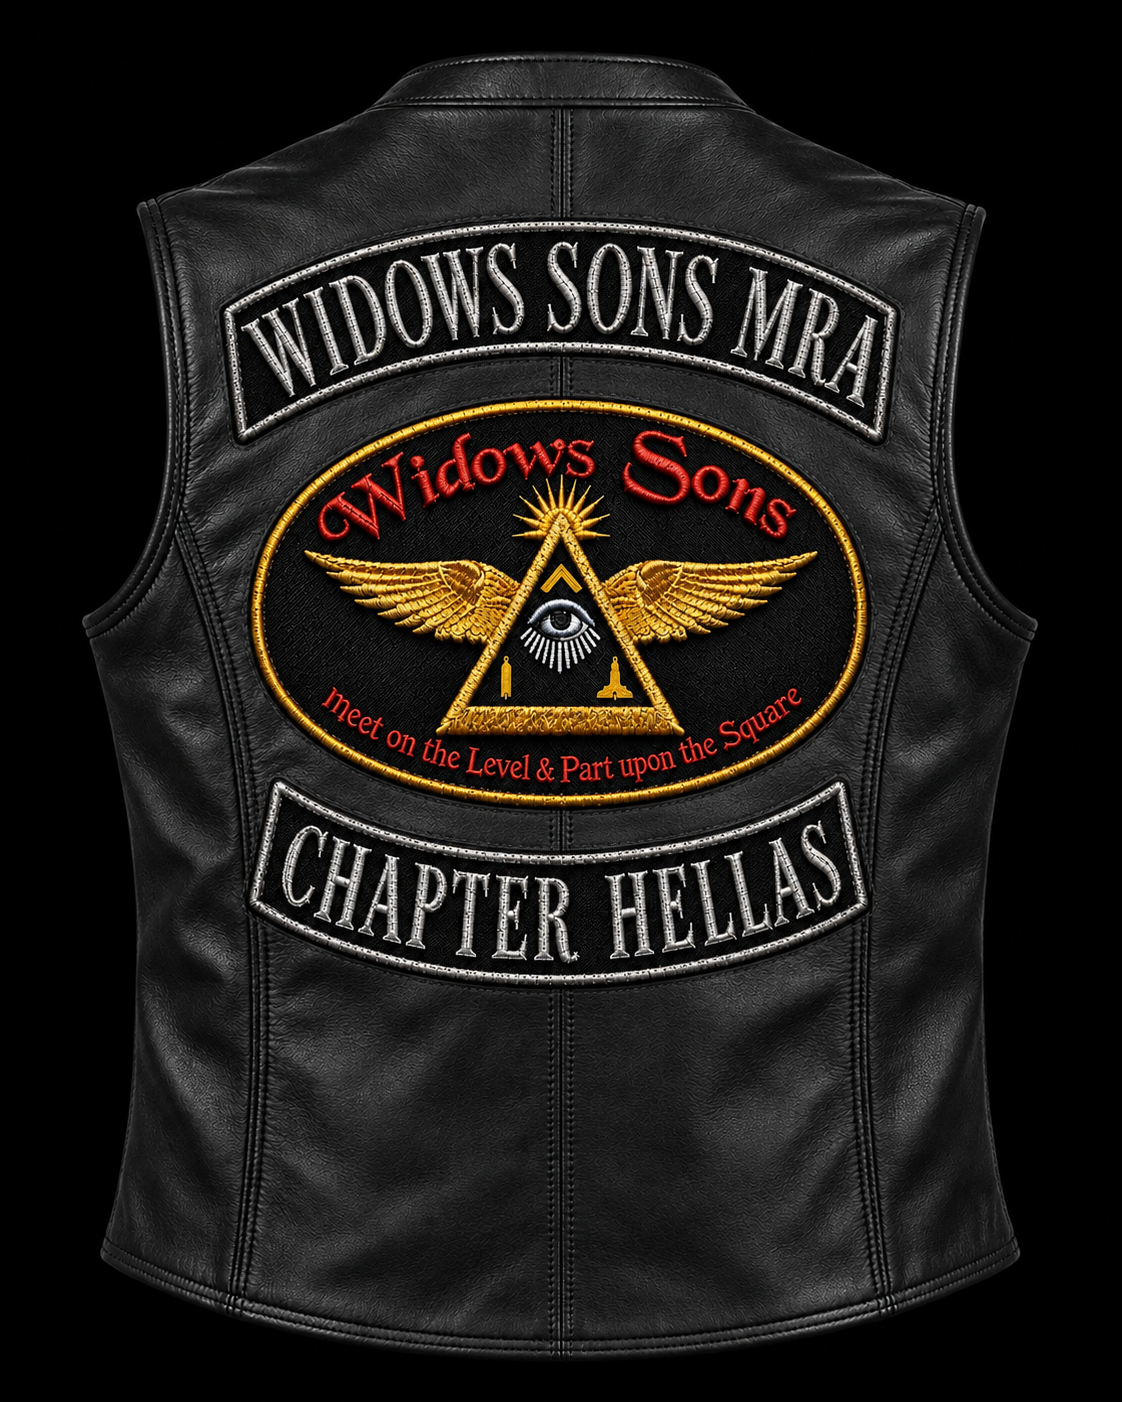
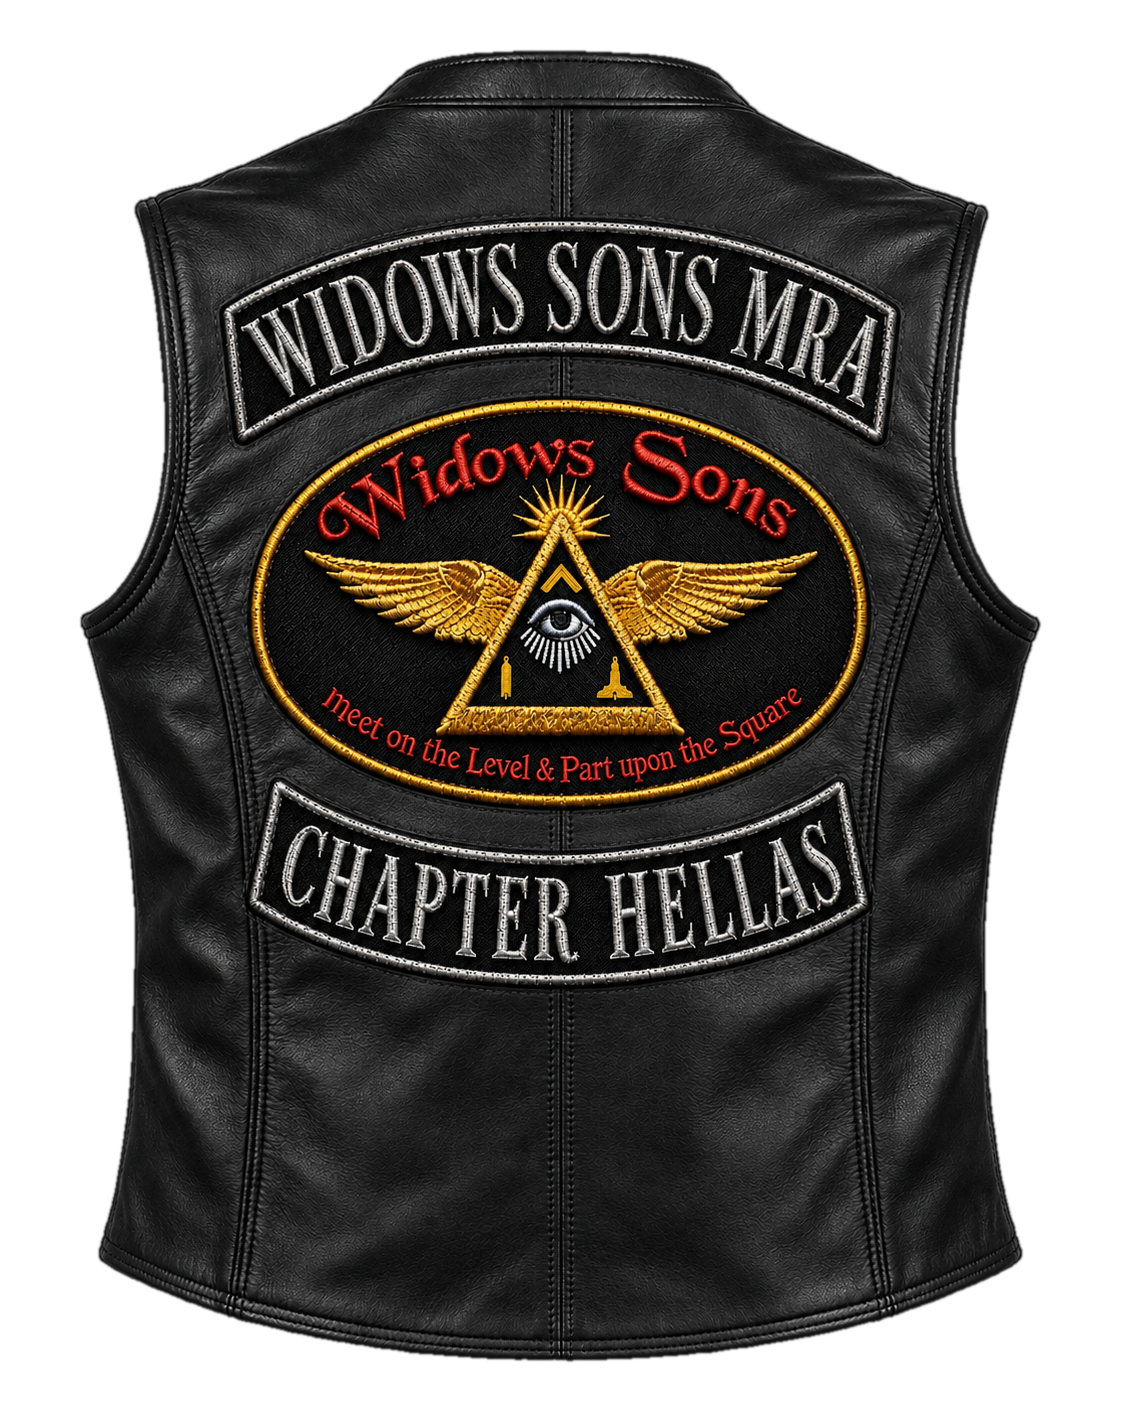
Garage backdrop, patch-number switch, one 9.5 cm front colours patch
- The vest stands in a motorcycle garage: brick wall, roller shutter,
  work lights, a neon sign, and cruiser motorcycles on the concrete to
  either side, softly out of focus (garage.jpg). The front and back vest
  photographs are cut out of their studio backdrops (transparent PNG),
  so the garage shows around them, and the downloaded JPEG, front or
  complete set, is composed on the same garage.
- Patch numbers: a switch in the panel shows or hides the red numbers.
- The small top rocker, oval and bottom rocker (7, 8, 9) are replaced by
  one patch, the full colours WIDOWS SONS / the winged oval / HELLAS
  CHAPTER, at 9.5 x 9.5 cm (195 px at the photograph's 20.5 px/cm). It
  is finished as embroidery: satin-stitch grain in metallic silver
  thread on the lettering and rims, stitched colour in the oval, twill in
  the black ground, raised edges and a shadow onto the leather. The old
  pieces are lifted and the leather under them restored.
- The new patch is n.7; 8 and 9 are left free so 10 still names the size
  tag. The legend and the specifications follow.

Claude-Session: https://claude.ai/code/session_01Ps87Ktm1jtAFeFkUS2SjFv

diff --git a/index.html b/index.html
@@ -38,7 +38,8 @@
     .dl-option.primary:hover{filter:brightness(1.06)}
     .specs{margin-top:auto;padding:15px;border:1px solid #30343d;border-radius:13px;background:#0b0c0f;display:grid;gap:9px}
     .specs div{display:flex;justify-content:space-between;color:var(--muted);font-size:12px}.specs strong{color:#e6e8ec}
-    main{min-width:0;padding:25px 36px;background:radial-gradient(circle at 55% 35%,#262a32,#111318 45%,#08090b 78%)}
+    main{min-width:0;padding:25px 36px;background:linear-gradient(180deg,rgba(8,9,11,.55),rgba(8,9,11,0) 22%,rgba(8,9,11,0) 78%,rgba(8,9,11,.6)),url(garage.jpg?v=g1) center 62%/cover no-repeat #120e0c}
+    main header h2,main header .eyebrow{text-shadow:0 2px 8px #000}
     header{max-width:860px;margin:auto;display:flex;justify-content:space-between;align-items:center}.badge{padding:8px 12px;border:1px solid #3a3f48;border-radius:99px;color:#969da7;background:#101216;font-size:13px}.badge.active{color:#fff;border-color:#b7bdc6;box-shadow:0 0 20px #fff2}
     .stage{min-height:calc(100vh - 90px);display:grid;place-items:center}
     .vest{position:relative;width:min(690px,76vh,calc(100vw - 430px));aspect-ratio:3/4;filter:drop-shadow(0 28px 32px #000a)}
@@ -77,6 +78,7 @@
       <div class="toggle"><div class="toggle-copy"><label>Honorary</label><small id="honoraryStatus">Visible</small></div><button class="switch on" id="honoraryToggle" type="button" role="switch" aria-checked="true" aria-label="Show Honorary patch"></button></div>
       <div class="field subfield" id="honoraryField"><label for="honoraryType">Honorary Type</label><select id="honoraryType"><option>Honorary</option><option>Most Honorary</option></select></div>
       <div class="toggle"><div class="toggle-copy"><label>Founder</label><small id="founderStatus">Visible</small></div><button class="switch on" id="founderToggle" type="button" role="switch" aria-checked="true" aria-label="Show Founder patch"></button></div>
+      <div class="toggle"><div class="toggle-copy"><label>Patch numbers</label><small id="numbersStatus">Visible</small></div><button class="switch on" id="numbersToggle" type="button" role="switch" aria-checked="true" aria-label="Show patch numbers"></button></div>
       <button type="button" class="btn-download" id="downloadBtn">Download JPEG</button>
       <div class="dl-choice hidden" id="dlChoice">
         <p>Download the front only, or the full set?</p>
@@ -88,15 +90,15 @@
         <p>PATCH NUMBERS</p>
         <ol>
           <li>National flag</li><li>Office rank</li><li>Roadname</li><li>Founder</li><li>Honorary</li>
-          <li value="7">Top rocker &mdash; WIDOWS SONS</li><li>Centre oval (small)</li><li>Bottom rocker &mdash; HELLAS CHAPTER</li><li>Size tag</li>
+          <li value="7">Front colours &mdash; WIDOWS SONS &middot; oval &middot; HELLAS CHAPTER</li><li value="10">Size tag</li>
         </ol>
       </div>
-      <div class="specs"><div><span>Flag</span><strong>11 × 6 cm</strong></div><div><span>Name patches</span><strong>11 × 3 cm</strong></div><div><span>Front emblem</span><strong>8.2 × 8.2 cm</strong></div><div><span>Vest size</span><strong>XL · 58 cm</strong></div></div>
+      <div class="specs"><div><span>Flag</span><strong>11 × 6 cm</strong></div><div><span>Name patches</span><strong>11 × 3 cm</strong></div><div><span>Front colours</span><strong>9.5 × 9.5 cm</strong></div><div><span>Vest size</span><strong>XL · 58 cm</strong></div></div>
     </aside>
     <main>
       <header><div><p class="eyebrow">LIVE PREVIEW</p><h2 id="heading">President</h2></div><div class="badge active" id="trimBadge">Silver trim</div></header>
       <div class="stage"><div class="vest">
-        <img id="vestImage" src="vest-silver.png?v=hc1" alt="Widows Sons Chapter Hellas leather vest">
+        <img id="vestImage" src="vest-silver.png?v=g1" alt="Widows Sons Chapter Hellas leather vest">
         <div class="size" id="sizeTag">SIZE<strong>XL</strong></div>
         <div class="patch rank" id="rankPatch">PRESIDENT</div>
         <div class="patch road" id="roadPatch">BUILDSMITH</div>
@@ -126,10 +128,12 @@
         const im=new Image();
         im.onload=()=>{backImgCache=im;resolve(im)};
         im.onerror=reject;
-        im.src='vest-back.png';
+        im.src='vest-back.png?v=g1';
       });
     }
     loadBackImage().catch(()=>{});
+    let garageImg=null;
+    const garageReady=new Promise(res=>{const g=new Image();g.onload=()=>{garageImg=g;res(g)};g.onerror=()=>res(null);g.src='garage.jpg?v=g1'});
 
     // ---- Office Rank list -------------------------------------------------
     // The offices are the Chapter's, not this page's: they are read from the
@@ -169,13 +173,14 @@
       {n:2,el:'rankPatch'},{n:3,el:'roadPatch'},{n:4,el:'founderPatch'},{n:5,el:'honoraryPatch'},
       // n.6, the Chapter roundel, is taken off the vest; its number is kept free
       // so the numbers after it do not move.
-      {n:7,at:[.639,.277]},                 // top rocker (small)
-      {n:8,at:[.654,.318]},                 // centre oval (small)
-      {n:9,at:[.640,.376]},                 // bottom rocker (small)
+      {n:7,at:[.644,.278]},                 // front colours, one patch 9.5 x 9.5 cm
+      // 8 and 9 (the small oval and bottom rocker) are now part of n.7
       {n:10,el:'sizeTag'}
     ];
     const pnoLayer=document.getElementById('patchNumbers');
     PNO.forEach(p=>{const b=document.createElement('span');b.className='pno';b.textContent=p.n;pnoLayer.appendChild(b);p.b=b});
+    const numbersToggle=document.getElementById('numbersToggle');
+    numbersToggle.addEventListener('click',()=>{const on=numbersToggle.classList.toggle('on');numbersToggle.setAttribute('aria-checked',on);pnoLayer.classList.toggle('hidden',!on);document.getElementById('numbersStatus').textContent=on?'Visible':'Hidden'});
     function placeNumbers(){
       const box=document.querySelector('.vest');const W=box.clientWidth,H=box.clientHeight;
       PNO.forEach(p=>{
@@ -201,7 +206,7 @@
     // box depends on that patch's own text length.
     function matchPatchFonts(a,b){fitPatchFont(a);fitPatchFont(b);if(!a.clientWidth||!b.clientWidth)return;const size=Math.min(parseFloat(a.style.fontSize),parseFloat(b.style.fontSize));a.style.fontSize=size+'px';b.style.fontSize=size+'px'}
     function refitPatches(){fitPatchFont(hp);fitPatchFont(rp);matchPatchFonts(fp,rop);stackLeft()}
-    function updateRank(){const value=rank.value,silver=value==='President'||value==='Grand Master';rp.textContent=value.toUpperCase();fitPatchFont(rp);document.getElementById('heading').textContent=value;vest.src=silver?'vest-silver.png?v=hc1':'vest-standard.png?v=hc1';document.getElementById('silverNote').classList.toggle('hidden',!silver);const badge=document.getElementById('trimBadge');badge.textContent=silver?'Silver trim':'Standard trim';badge.classList.toggle('active',silver);if(value==='Grand Master'){type.value='Most Honorary';hp.textContent='MOST HONORARY'}fitPatchFont(hp)}
+    function updateRank(){const value=rank.value,silver=value==='President'||value==='Grand Master';rp.textContent=value.toUpperCase();fitPatchFont(rp);document.getElementById('heading').textContent=value;vest.src=silver?'vest-silver.png?v=g1':'vest-standard.png?v=g1';document.getElementById('silverNote').classList.toggle('hidden',!silver);const badge=document.getElementById('trimBadge');badge.textContent=silver?'Silver trim':'Standard trim';badge.classList.toggle('active',silver);if(value==='Grand Master'){type.value='Most Honorary';hp.textContent='MOST HONORARY'}fitPatchFont(hp)}
     rank.addEventListener('change',updateRank);
     road.addEventListener('input',()=>{road.value=road.value.toUpperCase().replace(/[^A-Z]/g,'').slice(0,10);rop.textContent=road.value||'ROAD NAME';matchPatchFonts(fp,rop);document.getElementById('count').textContent=road.value.length+'/10'});
     type.addEventListener('change',()=>{hp.textContent=type.value.toUpperCase();fitPatchFont(hp)});
@@ -238,7 +243,6 @@
       const canvas=document.createElement('canvas');
       canvas.width=img.naturalWidth;canvas.height=img.naturalHeight;
       const ctx=canvas.getContext('2d');
-      ctx.fillStyle='#08090b';ctx.fillRect(0,0,canvas.width,canvas.height);
       ctx.drawImage(img,0,0,canvas.width,canvas.height);
       function toCanvasRect(el){const r=el.getBoundingClientRect();return{x:(r.left-vestRect.left)*scale,y:(r.top-vestRect.top)*scale,w:r.width*scale,h:r.height*scale}}
       ['rankPatch','roadPatch','honoraryPatch','founderPatch'].forEach(id=>{
@@ -277,15 +281,24 @@
       if(includeBack){
         try{backImg=await loadBackImage()}catch(e){/* export front alone if the back photo can't load */}
       }
-      const gap=Math.round(frontCanvas.height*0.02);
-      const backW=backImg?Math.round(backImg.naturalWidth*(frontCanvas.height/backImg.naturalHeight)):0;
+      await garageReady;
+      const Hf=frontCanvas.height,gap=Math.round(Hf*0.04),side=Math.round(Hf*0.16),padY=Math.round(Hf*0.04);
+      const backW=backImg?Math.round(backImg.naturalWidth*(Hf/backImg.naturalHeight)):0;
       const combined=document.createElement('canvas');
-      combined.width=frontCanvas.width+(backImg?gap+backW:0);
-      combined.height=frontCanvas.height;
+      combined.width=side*2+frontCanvas.width+(backImg?gap+backW:0);
+      combined.height=Hf+padY*2;
       const ctx=combined.getContext('2d');
-      ctx.fillStyle='#08090b';ctx.fillRect(0,0,combined.width,combined.height);
-      ctx.drawImage(frontCanvas,0,0);
-      if(backImg)ctx.drawImage(backImg,frontCanvas.width+gap,0,backW,frontCanvas.height);
+      ctx.fillStyle='#120e0c';ctx.fillRect(0,0,combined.width,combined.height);
+      if(garageImg){
+        // the garage, covering the whole picture
+        const sc=Math.max(combined.width/garageImg.naturalWidth,combined.height/garageImg.naturalHeight);
+        const gw=garageImg.naturalWidth*sc,gh=garageImg.naturalHeight*sc;
+        ctx.drawImage(garageImg,(combined.width-gw)/2,(combined.height-gh)*0.62,gw,gh);
+      }
+      ctx.save();ctx.shadowColor='rgba(0,0,0,.7)';ctx.shadowBlur=Hf*0.03;ctx.shadowOffsetY=Hf*0.015;
+      ctx.drawImage(frontCanvas,side,padY);
+      if(backImg)ctx.drawImage(backImg,side+frontCanvas.width+gap,padY,backW,Hf);
+      ctx.restore();
       const filename=backImg
         ?`Set-WS-Vest-${slug(road.value)}-${slug(rank.value)}.jpg`
         :`${slug(road.value)}-${slug(rank.value)}.jpg`;
